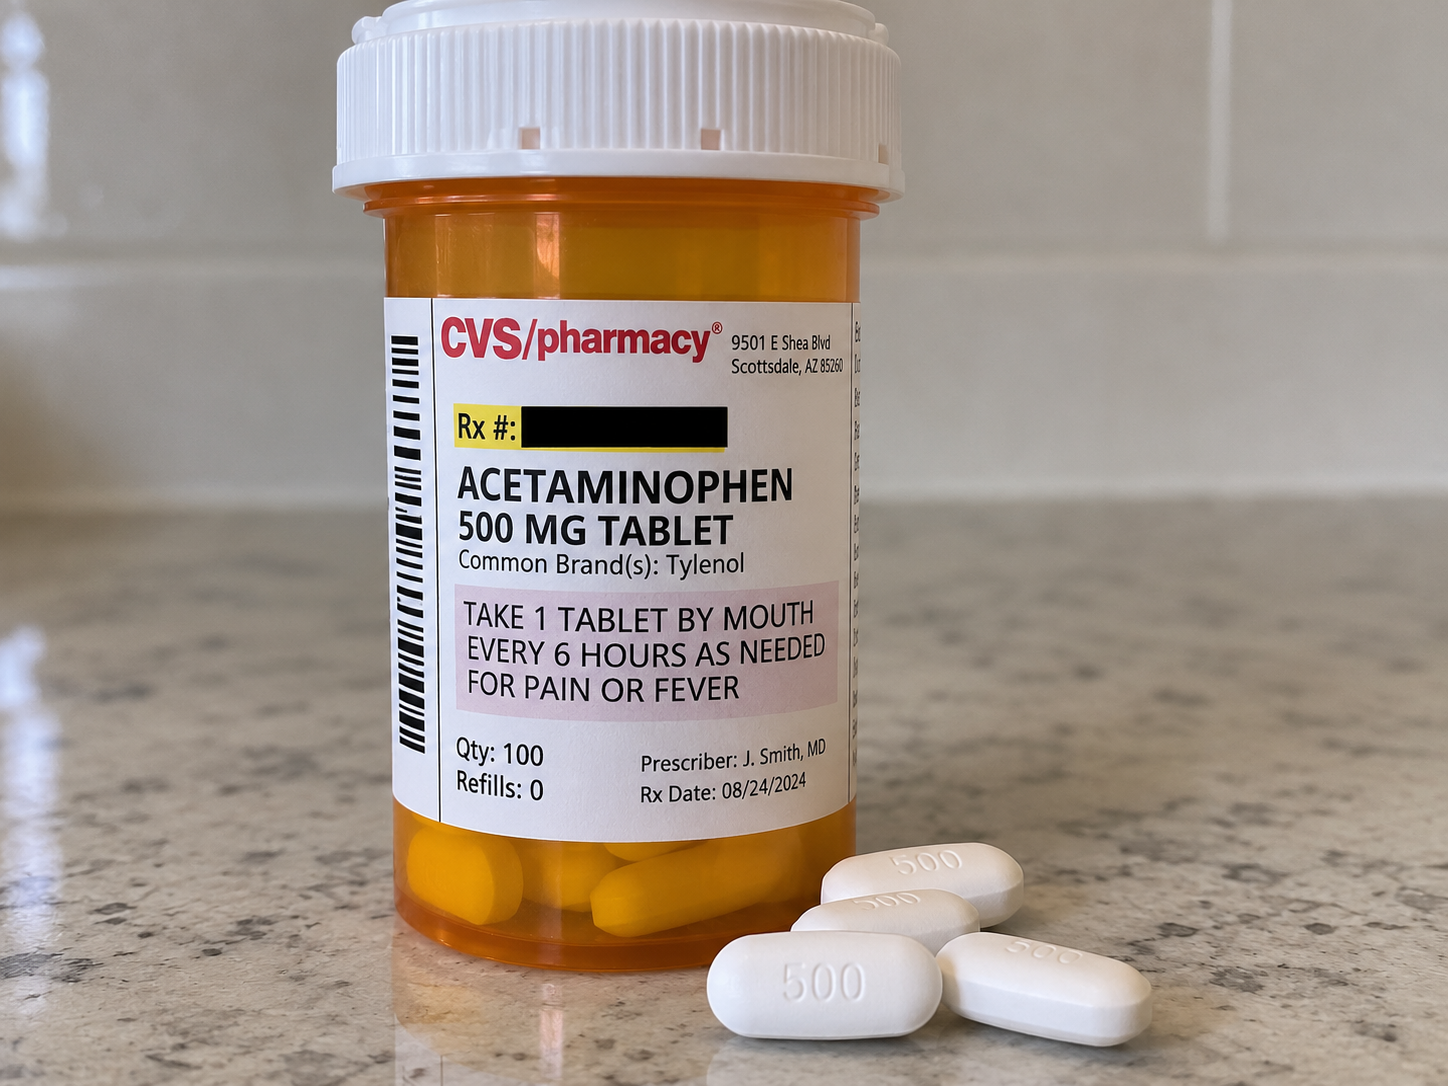
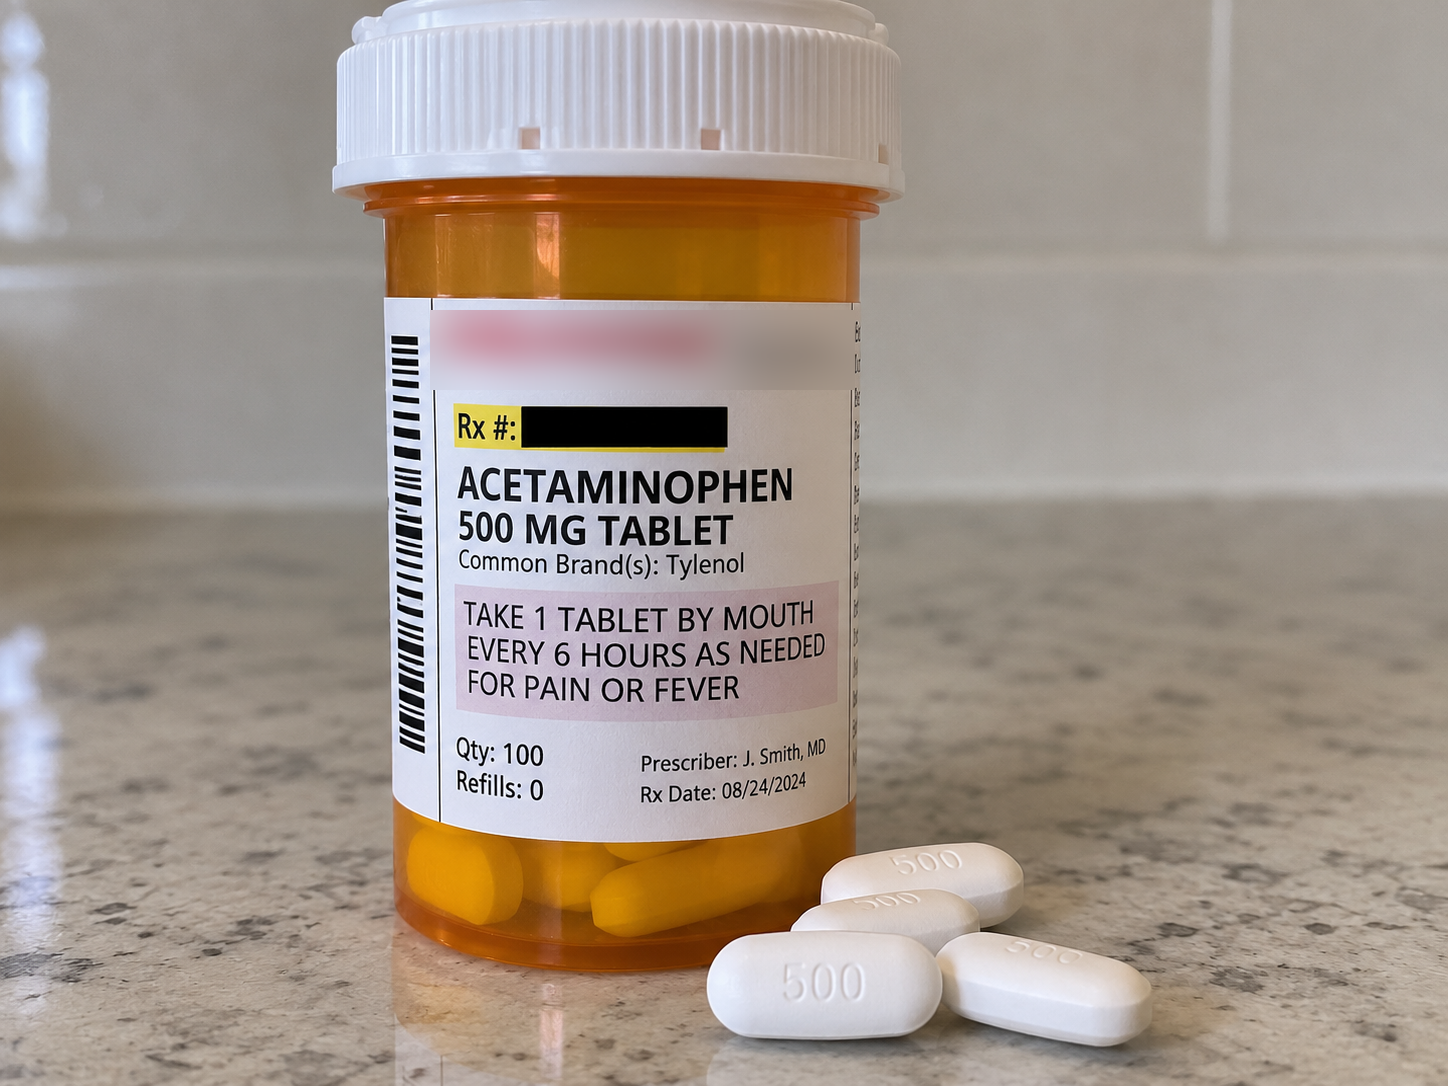
b: blur pharmacy branding on AI-generated test photos

Changed region(s): [[0.2797, 0.2735, 0.5905, 0.3646]]

diff --git a/docs/DATA_SOURCES.md b/docs/DATA_SOURCES.md
@@ -24,15 +24,15 @@ blacked out in the source or blurred by us.
 | --- | --- | --- | --- | --- |
 | `bottle_1.png` | Warfarin sodium 5 mg (Rx) | [Walgreens Prescription Bottle](https://commons.wikimedia.org/wiki/File:Walgreens_Prescription_Bottle.jpg), Wikimedia Commons | CC BY-SA 3.0 | none |
 | `bottle_7.png` | Ibuprofen 200 mg (Safeway generic, OTC) | Wikimedia Commons (Safeway generic ibuprofen) | CC0 | none |
-| `gen_ibuprofen_200mg.png` | Ibuprofen 200 mg, pharmacy vial | **AI-generated by the team** (not a real prescription) | ours | none |
-| `gen_acetaminophen_500mg.png` | Acetaminophen 500 mg, pharmacy vial | **AI-generated by the team** (not a real prescription) | ours | none |
+| `gen_ibuprofen_200mg.png` | Ibuprofen 200 mg, pharmacy vial | **AI-generated by the team** (not a real prescription) | ours | pharmacy logo and address blurred |
+| `gen_acetaminophen_500mg.png` | Acetaminophen 500 mg, pharmacy vial | **AI-generated by the team** (not a real prescription) | ours | pharmacy logo and address blurred |
 | `bottle_2_blurred.png` | Prednisone 20 mg, amoxicillin 500 mg, hydrocodone/APAP 5-500 | Bart Szyszka via Flickr, [Commons](https://commons.wikimedia.org/wiki/File:ClearRx_prescription_bottles_-_Flickr_-_bartsz.jpg) | CC BY 2.0 | name and address blurred |
 | `bottle_3.png` | Oxycodone 5 mg | Cindy Shebley via Flickr, [Commons](https://commons.wikimedia.org/wiki/File:Oxycodone_Prescription_Bottle_with_Pills_Spilling_Out._(41201105871).jpg) | CC BY 2.0 | none |
 | `bottle_4.png` | Nateglinide 60 mg | Grendelkhan, [Commons](https://commons.wikimedia.org/wiki/File:Nateglinide_60_mg_bottle,_Zydus,_front_view.jpg) | CC BY-SA 4.0 | none |
 | `bottle_5.png` | Jardiance (empagliflozin) 10 mg | Grendelkhan, [Commons](https://commons.wikimedia.org/wiki/File:Jardiance_10mg_bottle,_front_view.jpg) | CC BY-SA 4.0 | none |
 
-The two AI-generated images show a real pharmacy chain's logo and store address on a
-made-up label. They are test inputs only; never present them as real prescriptions.
+The two AI-generated images had a real pharmacy chain's logo and address on a made-up
+label; we blurred both. They are test inputs only; never present them as real prescriptions.
 
 ### Local only (NOT committed: no license)
 
